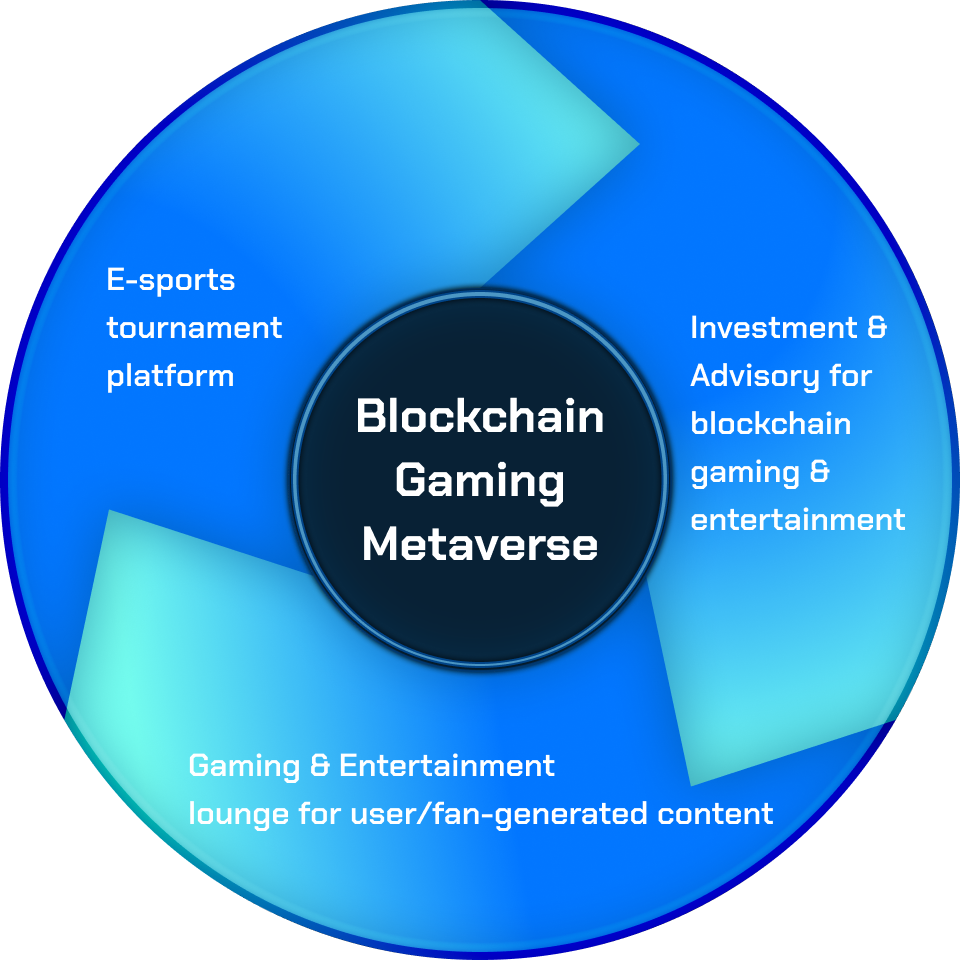
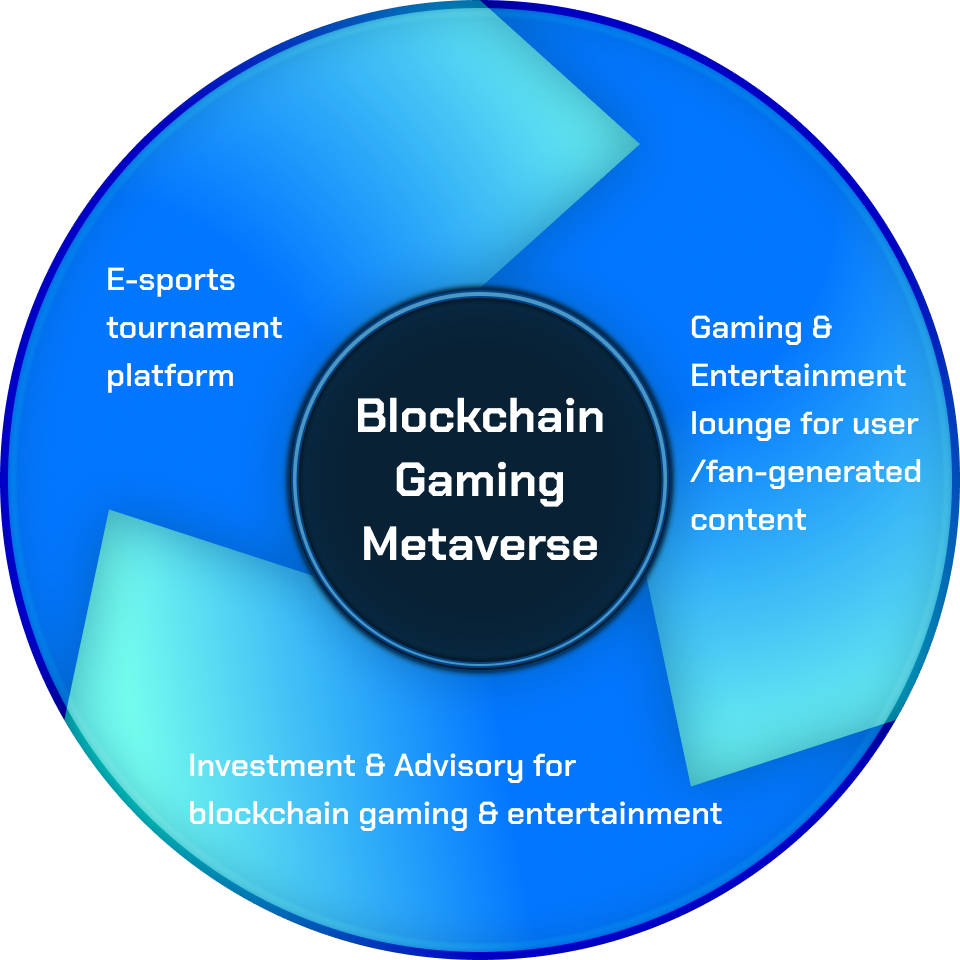
변경사항 업데이트

Changed region(s): [[0.7188, 0.3125, 0.9688, 0.5625], [0.1875, 0.7812, 0.8125, 0.875], [0.1875, 0.8438, 0.2188, 0.875]]

diff --git a/index.html b/index.html
@@ -2,7 +2,10 @@
 <html lang="ko">
   <head>
     <meta charset="UTF-8" />
-    <meta name="viewport" content="width=device-width, initial-scale=0.8, maximum-scale=0.8" />
+    <meta
+      name="viewport"
+      content="width=device-width, initial-scale=0.8, maximum-scale=0.8"
+    />
     <title>DWG Guild (DWG G)</title>
     <meta
       name="description"
@@ -239,8 +242,9 @@
               industries
             </div>
             <div class="jumbotron__content--sub">
-              An innovative gaming guild for enthusiastic gamers and investors
-              <br />to enjoy uncharted fun and rewards
+              An innovative gaming guild with a blockchain-based e-sports arena
+              <br />E-sports tournament platform & Lounge for user/fan-generated
+              content
             </div>
           </div>
         </div>
@@ -258,15 +262,14 @@
           <div class="type__title">DWG GUILD</div>
           <div class="type__content">
             The first gaming DAO officially partnered with an e-sports champion
-            team, DWG Kia,<br/>to build a blockchain-based e-sports arena where
+            team, DWG Kia,<br />to build a blockchain-based e-sports arena where
             every participant can have fun and rewards
-            <br/>
+            <br />
             <div class="about__grid--text">
-              <br/>
-              Participants: Users
-              & Fans / Traditional & Crypto sponsors / E-sports teams &
-              Entertainment co. / Game developers & publishers / Others e.g.
-              streamers
+              <br />
+              Participants: Users & Fans / Traditional & Crypto sponsors /
+              E-sports teams & Entertainment co. / Game developers & publishers
+              / Others e.g. streamers
             </div>
           </div>
           <div class="about__grid">
@@ -279,7 +282,7 @@
                 <div class="about__grid--text">- User-pooled tournament</div>
                 <div class="about__grid--text">- Sponsor-backed tournament</div>
                 <div class="about__grid--sub">
-                  • Gaming & Entertainment lounge for user/fan-generated content
+                  • E-sports lounge for user/fan-generated content
                 </div>
                 <div class="about__grid--text">- In-game content studio</div>
                 <div class="about__grid--text">
@@ -332,7 +335,7 @@
             <div class="partners__grid--title">Damwon Gaming</div>
             <div class="partners__grid--content">
               Damwon Gaming(DWG) is an official partner of DWG Guild,<br />
-              and is also playing a key role in the guild as one of our core
+              Playing a key role in the guild as one of our core
               contributors.
               <div class="partners__grid--sub">
                 • Professional e-sports organization holding various global

diff --git a/style.css b/style.css
@@ -302,7 +302,7 @@ header.active {
   font-family: "Bebas Neue";
   flex: none;
   width: 100%;
-  font-size: 1.25rem;
+  font-size: 3.5vw;
   line-height: 1.25;
   text-align: center;
   color: white;
@@ -549,7 +549,7 @@ header.active {
 
 @media (min-width: 641px) {
   .about__grid--sub {
-    font-size: 1.25rem;
+    font-size: 1.125rem;
     margin-bottom: 0.5rem;
   }
 }
